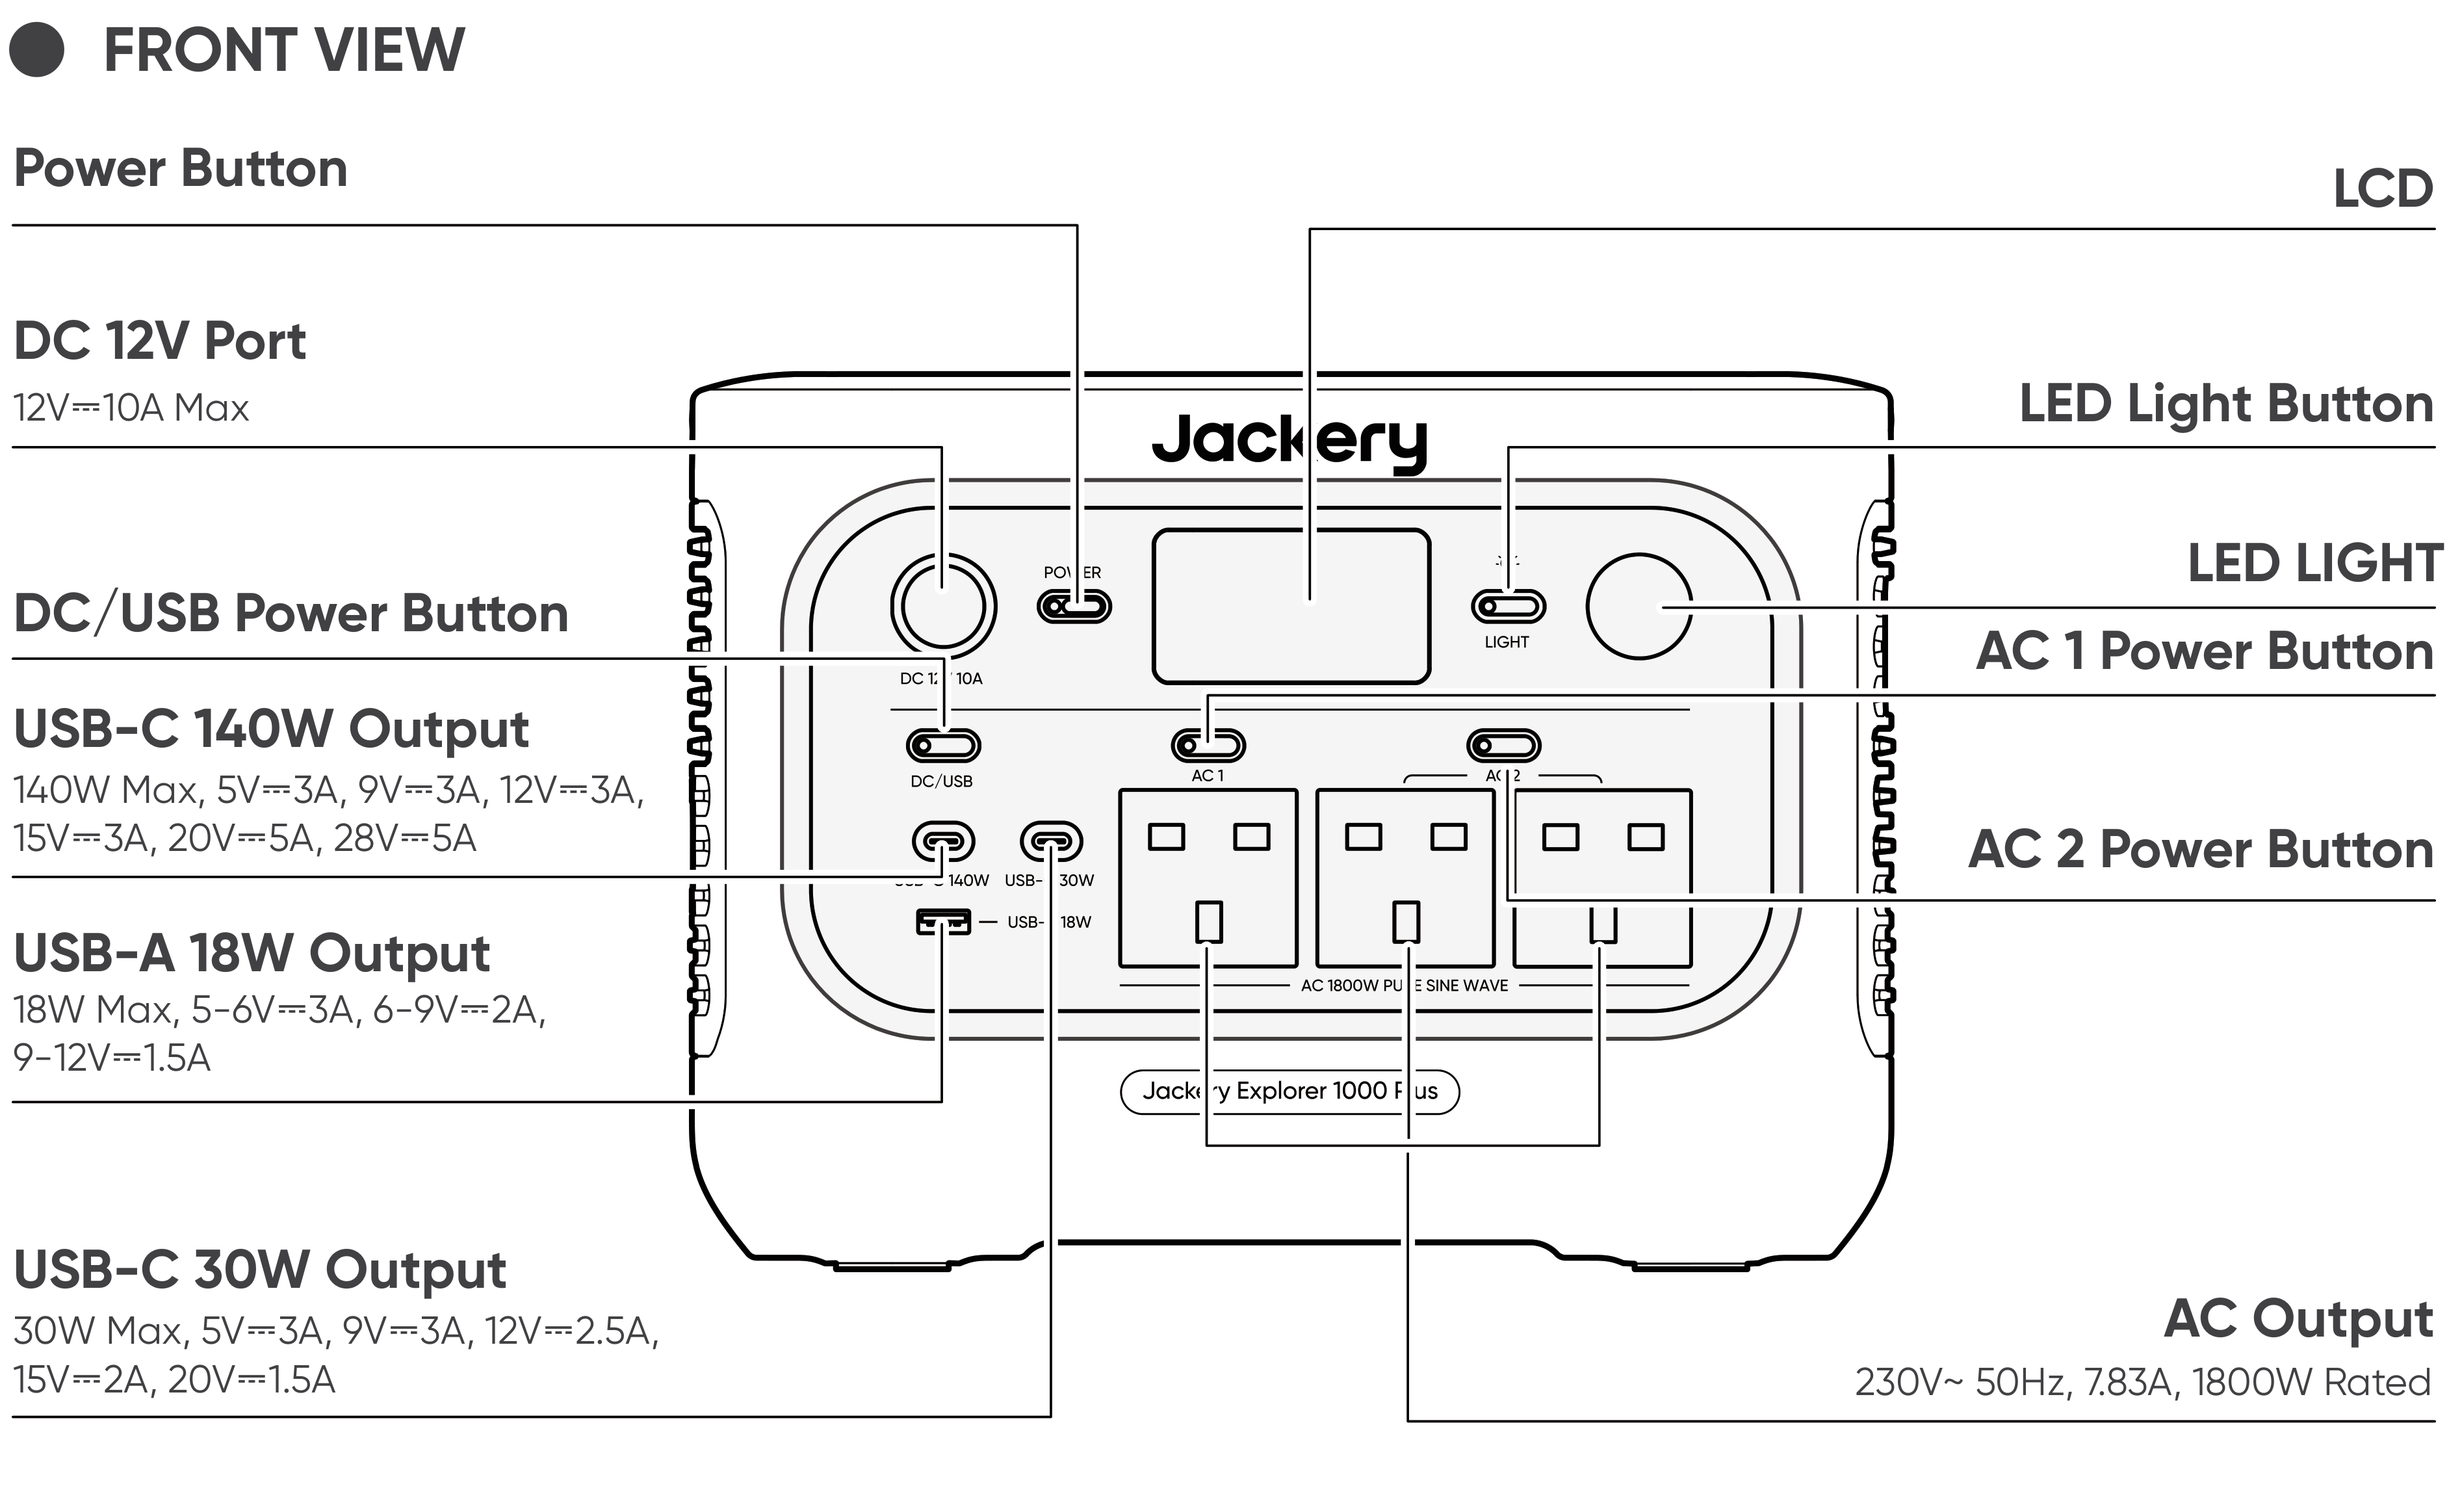
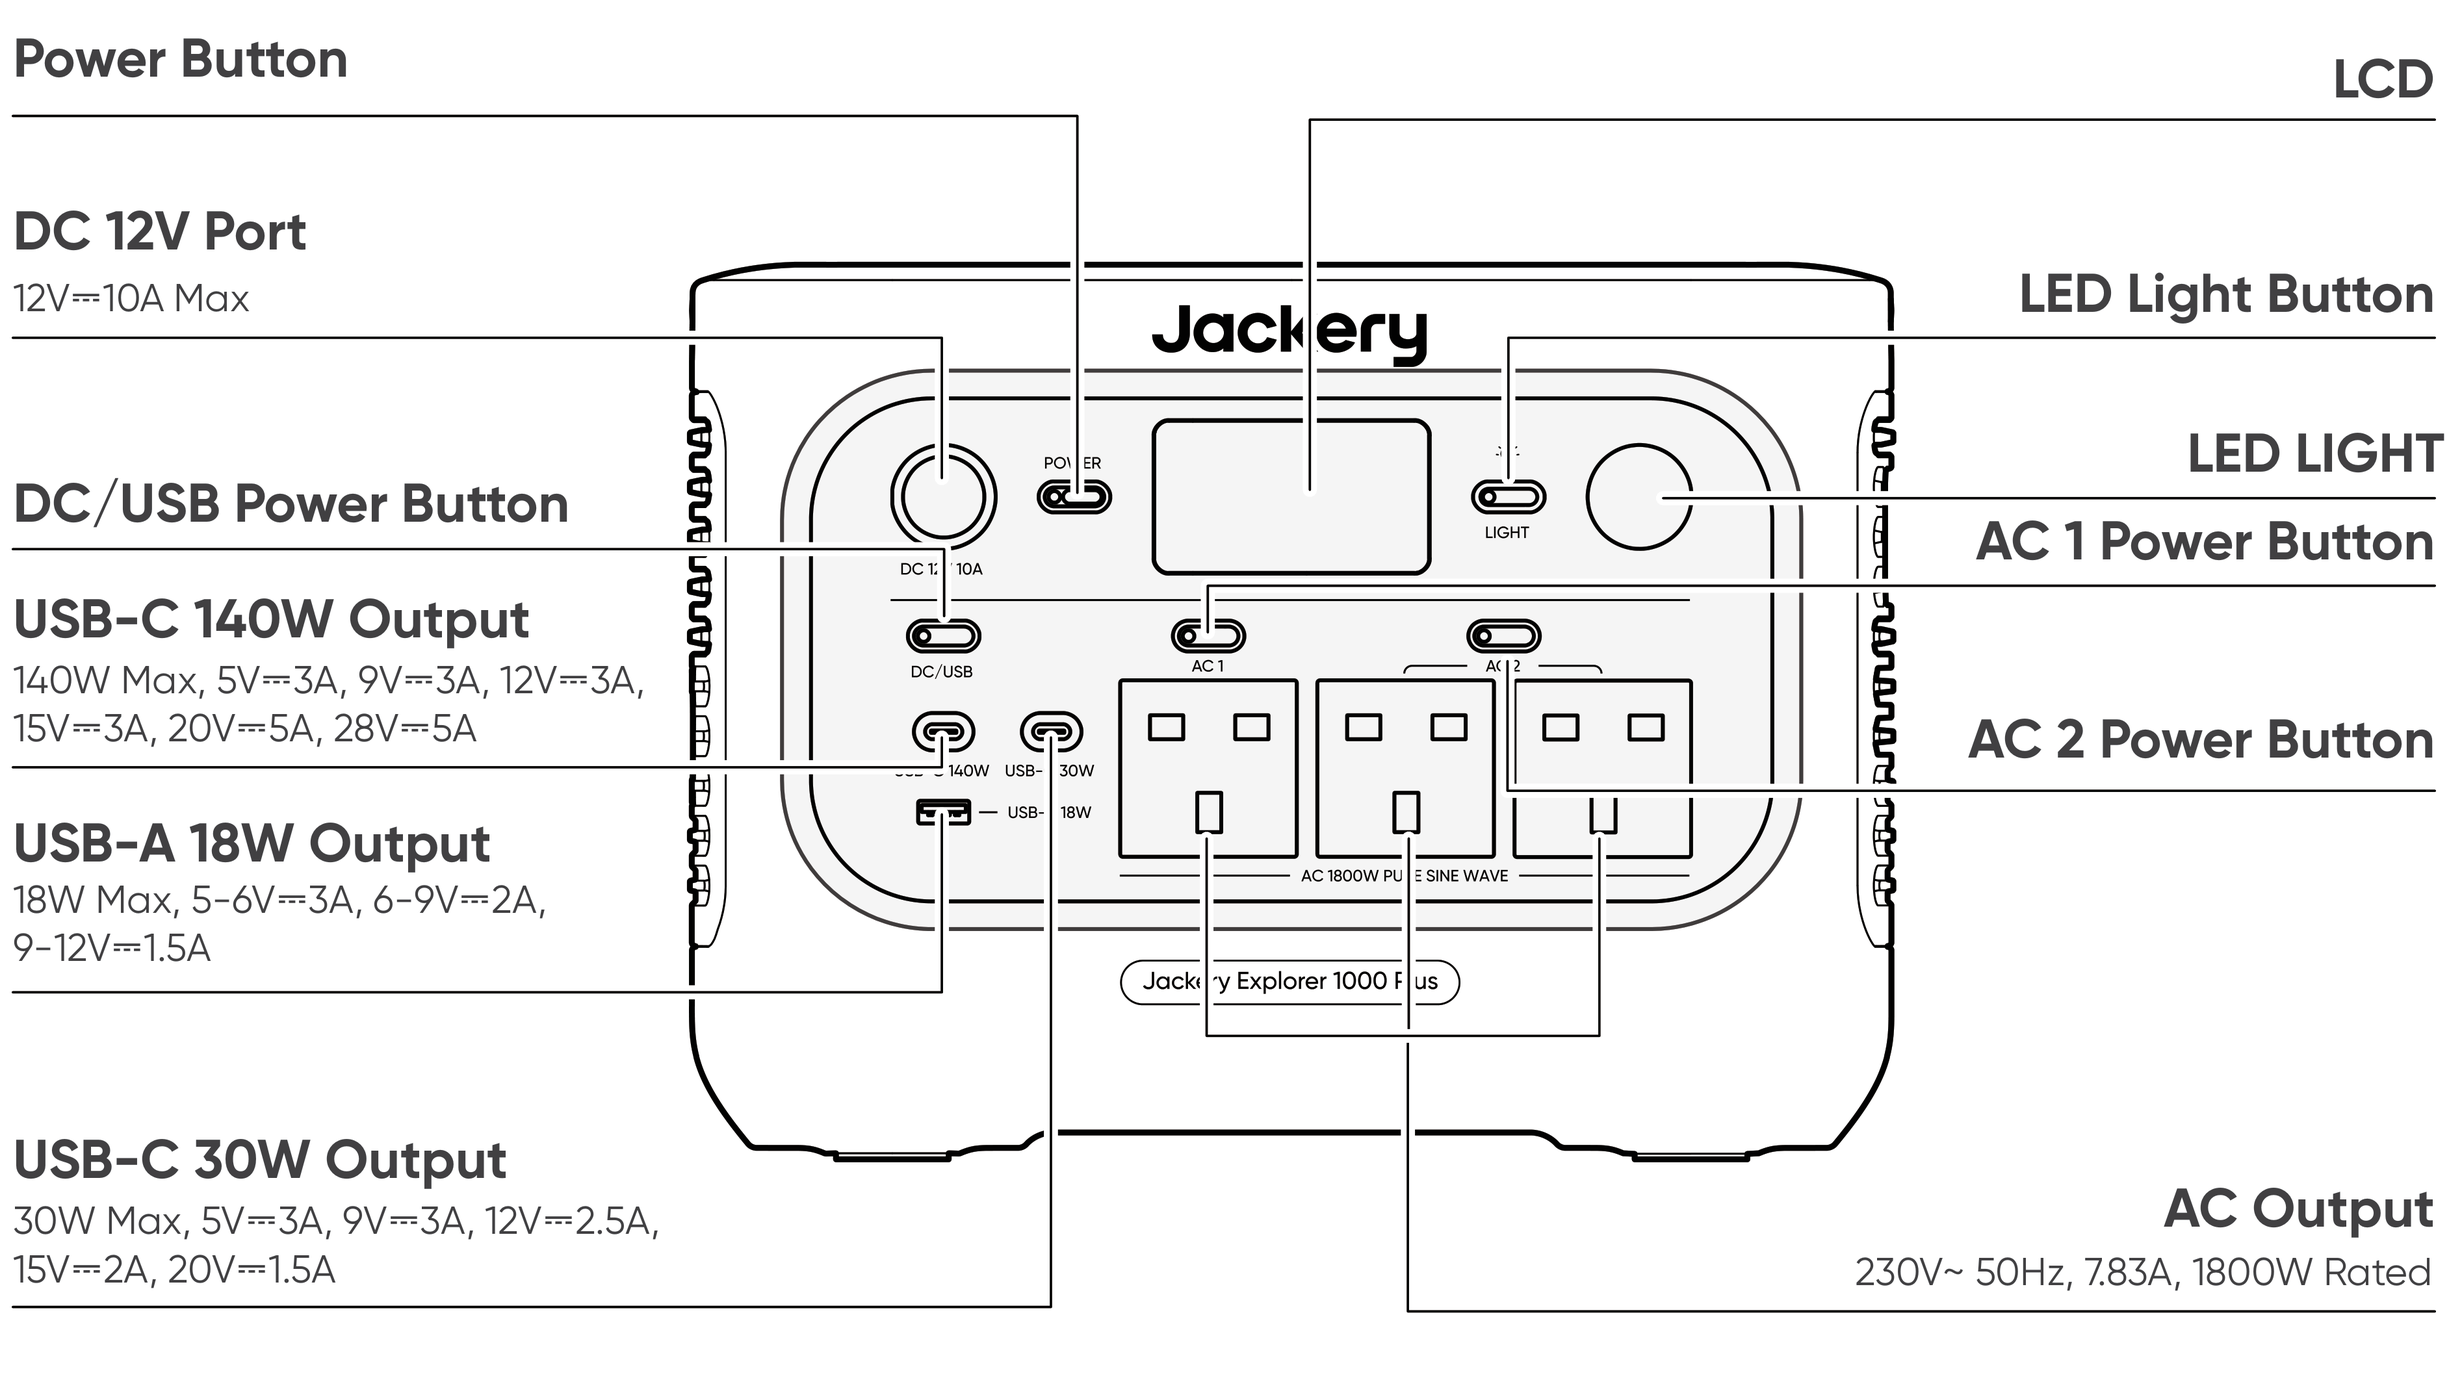
fix(web): exclude overview titles from JE-1000H crops

diff --git a/code-as-doc/reviews/je1000h_eu_en_web_intake_2026-09.md b/code-as-doc/reviews/je1000h_eu_en_web_intake_2026-09.md
@@ -14,6 +14,8 @@
   `manual_sources/JE-1000H/EU/en/2.0/phase2`; no live Bitable query is required.
 - Product, port, LCD-map, battery-pack, charging, and App images are extracted
   from this JE-1000H source. No product illustration from another model is used.
+- Product-overview crops exclude the source artwork's embedded FRONT VIEW and
+  LEFT/RIGHT SIDE VIEW headings so the Web section headings are not duplicated.
 - Text-bearing illustration frames consume their duplicated Web annotations.
   The LCD detail remains a searchable semantic HTML/CSS table beside the source
   numbered overview image; the manual is not published as PDF-page screenshots.
